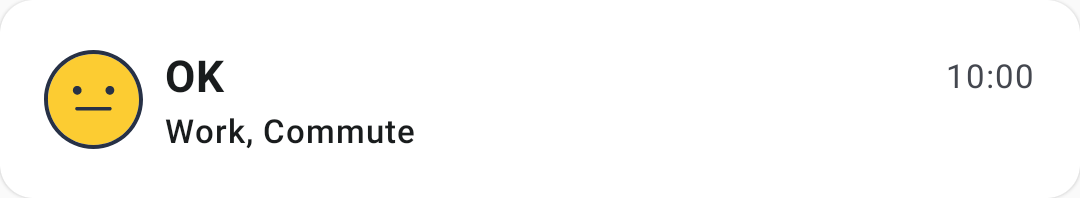
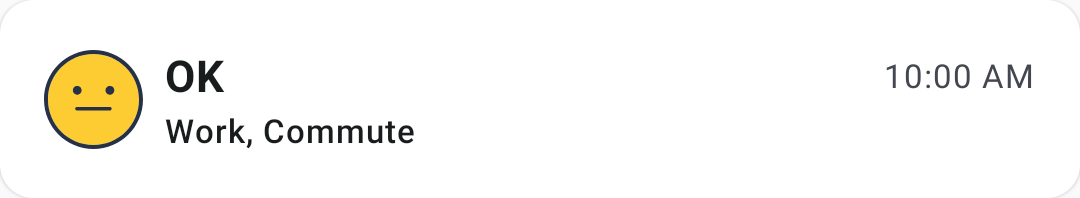
Updated README.md for screenshot-tests-shot module; Regenerated screenshots for Shot

Changed region(s): [[0.825, 0.303, 0.9778, 0.4545]]

diff --git a/MoodTracker/screenshot-tests-shot/README.md b/MoodTracker/screenshot-tests-shot/README.md
@@ -32,7 +32,7 @@ Before running screenshot tests, ensure you:
 To capture and save golden screenshots, run:
 
 ```bash
-./gradlew :screenshot-tests-shot:executeScreenshotTests -Precord
+./gradlew :screenshot-tests-shot:debugExecuteScreenshotTests -Precord
 ```
 
 The screenshots will be saved to:
@@ -46,5 +46,5 @@ screenshot-tests-shot/src/screenshots/
 To run the screenshot tests and compare against golden images:
 
 ```bash
-./gradlew :screenshot-tests-shot:executeScreenshotTests
+./gradlew :screenshot-tests-shot:debugExecuteScreenshotTests
 ```